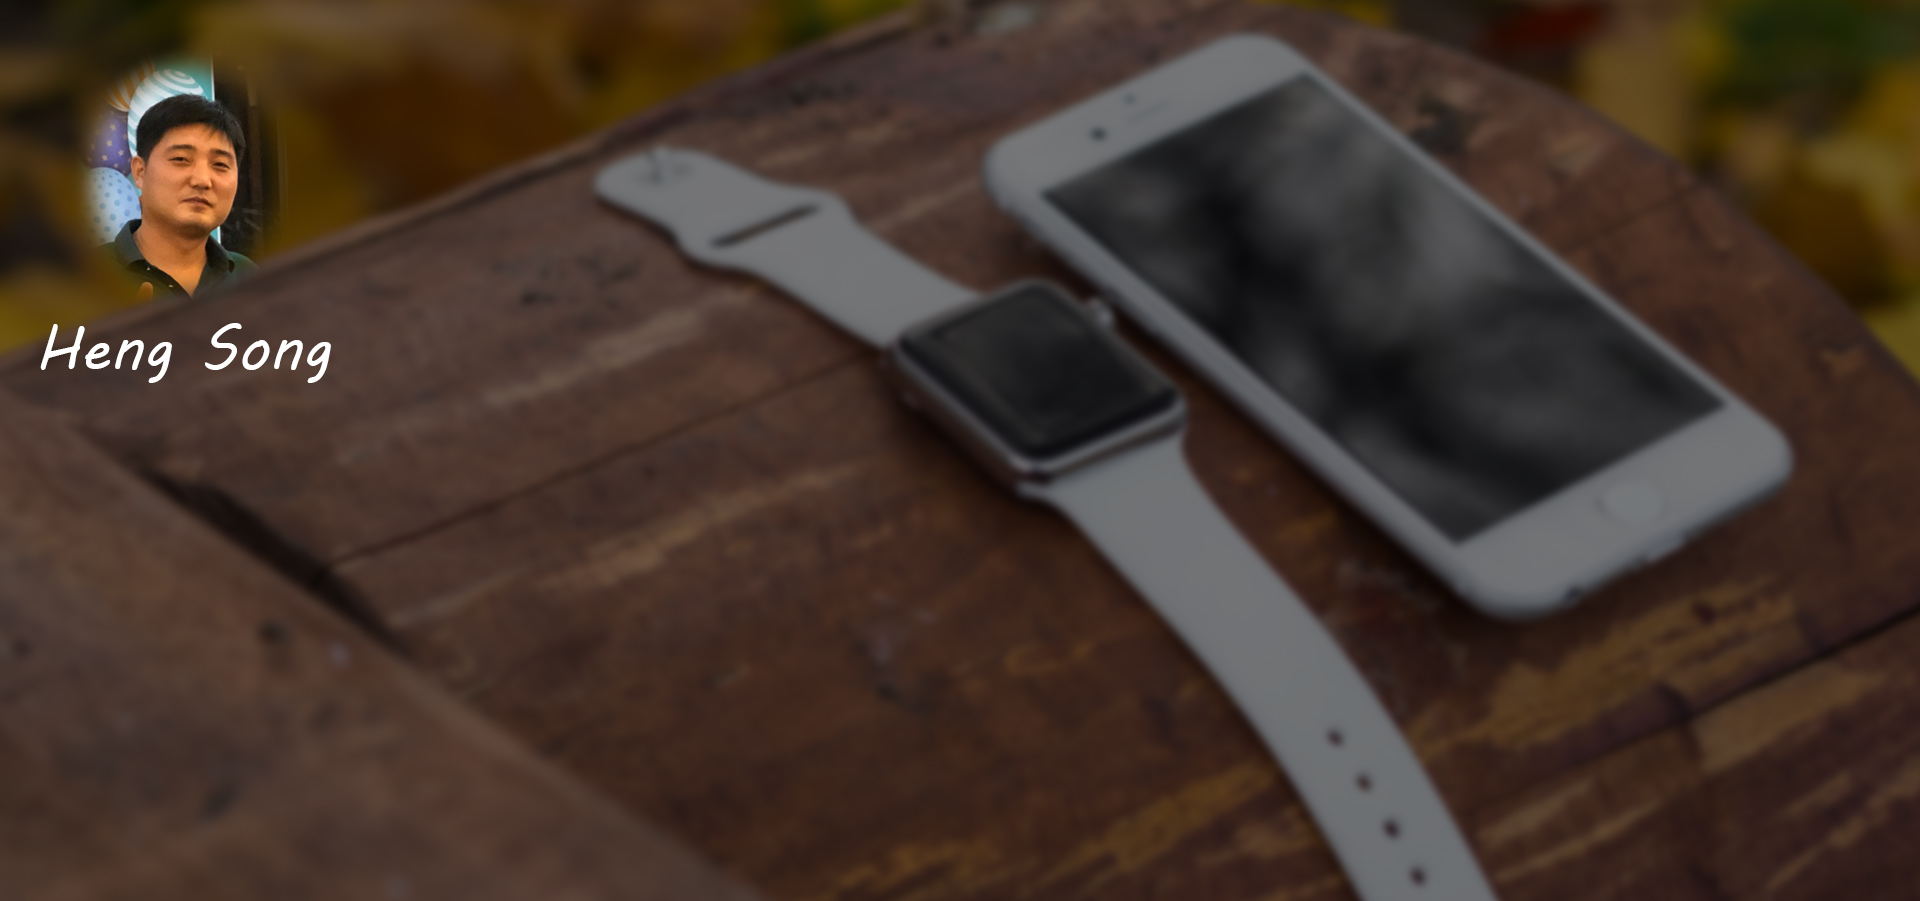
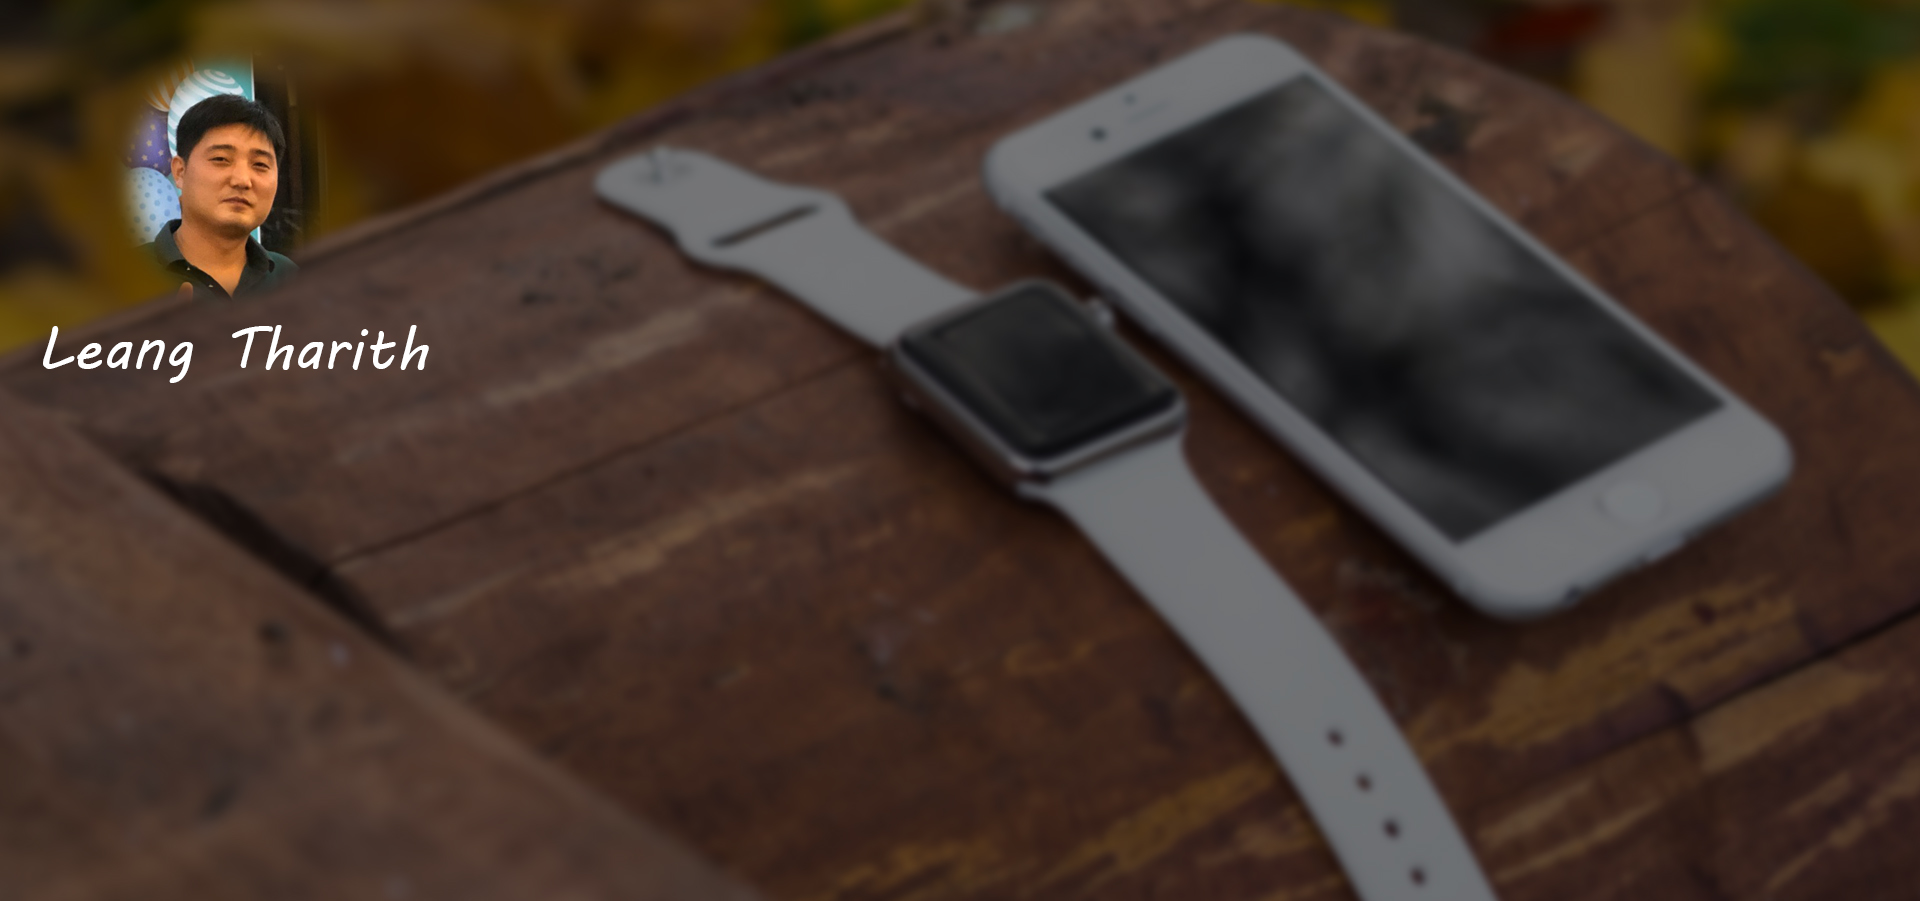
LeangTharith

Changed region(s): [[0.0, 0.0622, 0.2188, 0.4351]]

diff --git a/index.html b/index.html
@@ -3,7 +3,7 @@
 	<head>
 		<meta charset="utf-8">
 
-		<title>Heng Song - Portfolio</title>
+		<title>Leang Tarith - Portfolio</title>
 		<meta name="keywords" content="">
 		<meta name="description" content="">
         <meta name="author" content="templatemo">
@@ -62,7 +62,6 @@
 						<h2>WHAT I DO</h2>
 					</div>
                 </div>  
-                
                 <div class="row">
 					<div class="col-md-4 col-xs-11 wow fadeInUp" data-wow-delay="0.6s">
 						<div class="media">
@@ -328,9 +327,9 @@
 					<div class="col-lg-5 col-lg-offset-1 col-md-6 wow fadeInUp" data-wow-delay="0.6s">
 						<address>
 							<p class="contact-title">CONTACT ME</p>
-							<p><i class="fa fa-phone"></i> +855-61-683638</p>
-							<p><i class="fa fa-envelope-o"></i> hengsong829@gmail.com</p>
-							<p><i class="fa fa-skype"></i> hengsong829@outlook.com</p>
+							<p><i class="fa fa-phone"></i> +855-972545860</p>
+							<p><i class="fa fa-envelope-o"></i> tharithleang829@gmail.com</p>
+							<p><i class="fa fa-skype"></i> live:.cid.7be9150d051579a5</p>
 						</address>
 					</div>
 					<div class="col-lg-6 col-md-6 col-xs-10 wow fadeInUp" data-wow-delay="0.6s">
@@ -352,7 +351,7 @@
 			<div class="container">
 				<div class="row">
 					<div class="col-md-12 wow fadeIn" data-wow-delay="0.9s">
-						<p>Copyright &copy; 2019 Heng Song 
+						<p>Copyright &copy; 2019 Leang Tharith 
                         
                         <!-- . Designed by <a rel="nofollow noopener" href="https://templatemo.com">templatemo</a></p> -->
 						<hr>

diff --git a/contact.php b/contact.php
@@ -6,7 +6,7 @@ $name = $_POST['name'];
 $mailFrom = $_POST['email'];
 $message = $_POST['message'];
 
-$mailTo = "hengsong829@gmail.com";
+$mailTo = "tharithleang829@gmail.com";
 $headers =  "From: ".$mailFrom;
 
 mail($mailTo, $name, $message, $headers);
